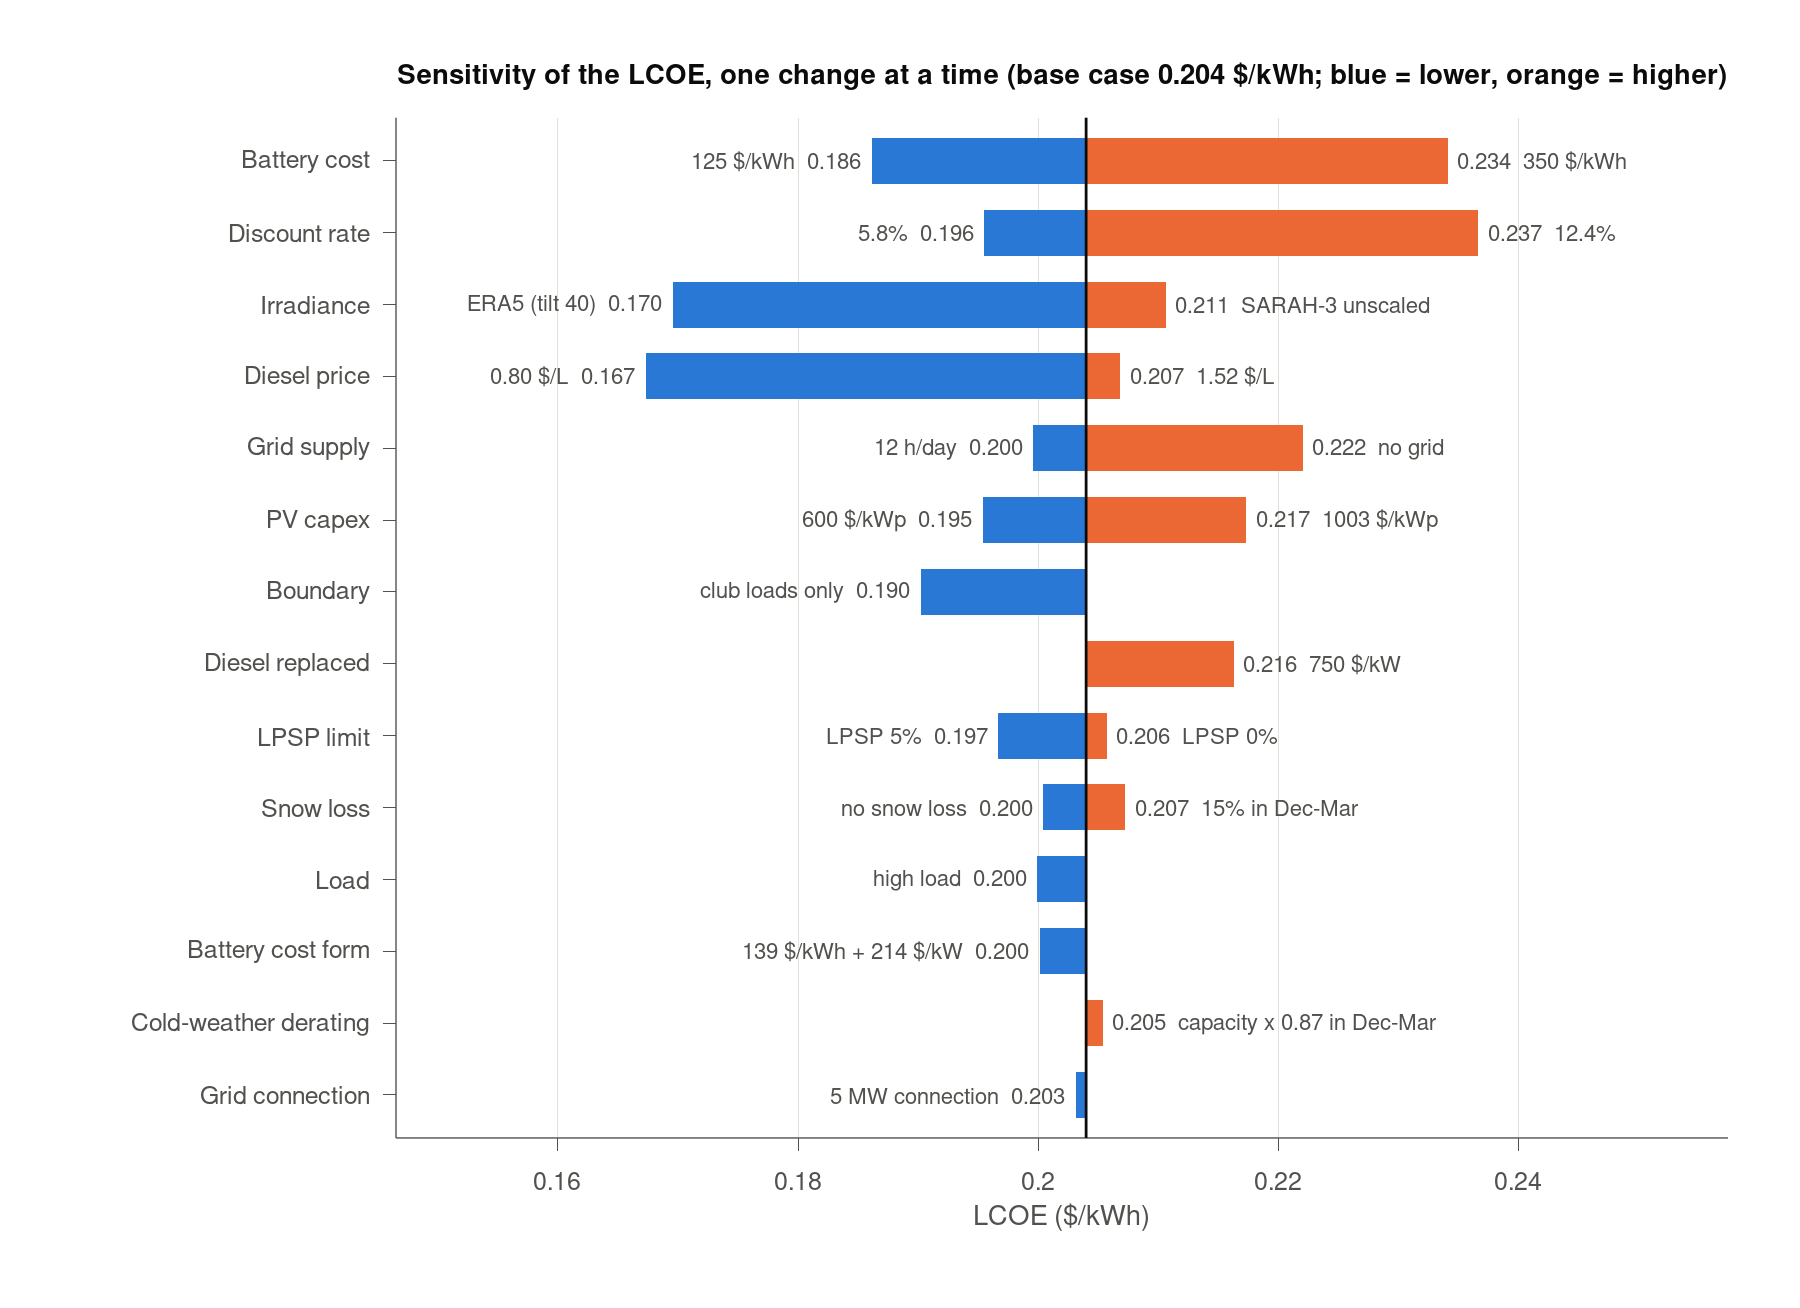
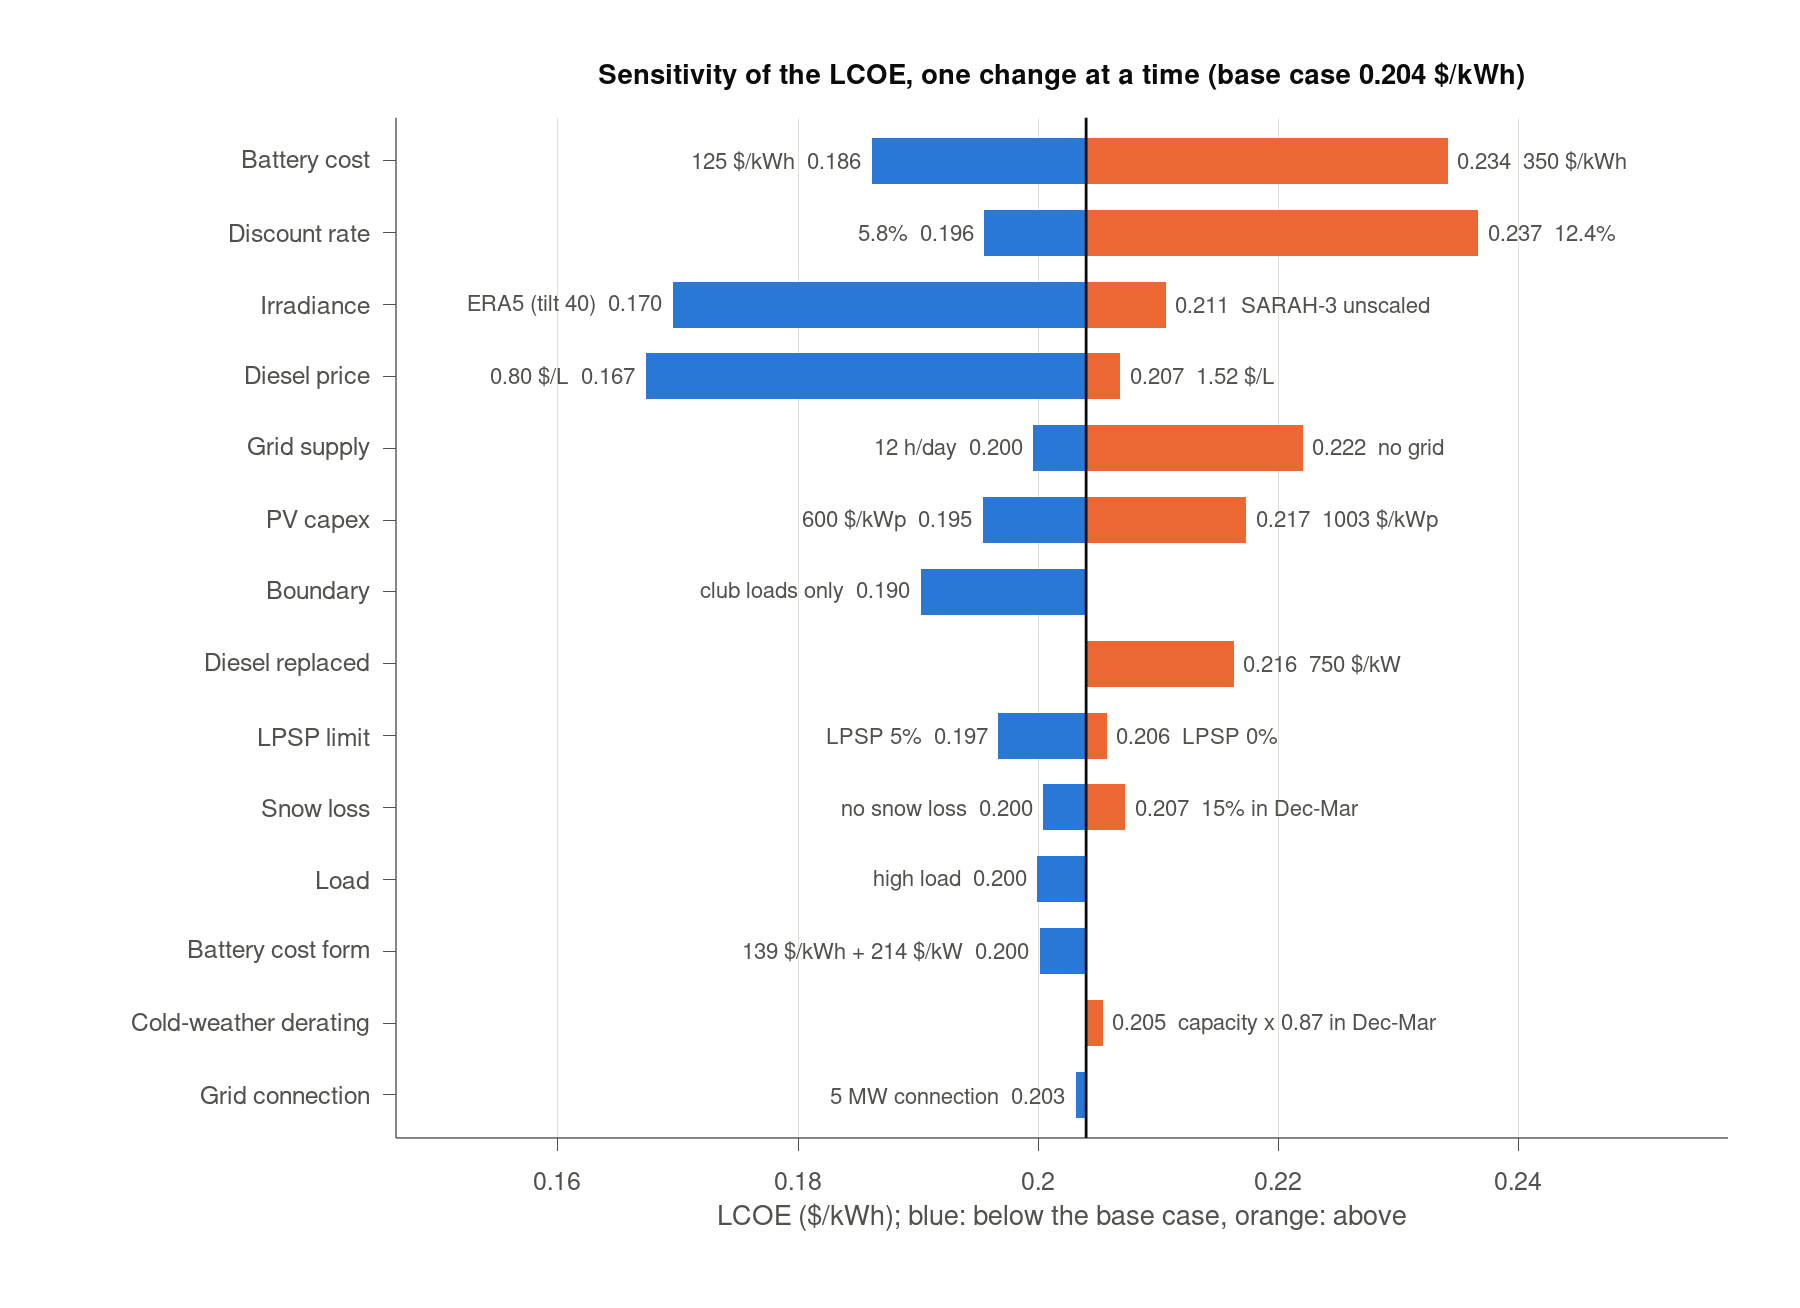
Report when load is shed; regenerate results
Add shedding hours, largest shed power and winter share to the KPIs and
the results README, plus a design-year consistency check. Rename two
local names that shadow MATLAB functions.

Claude-Session: https://claude.ai/code/session_01TWvgP6jwiDGerSZ1fpXVgg

Changed region(s): [[0.2178, 0.0306, 0.9644, 0.0917], [0.4044, 0.9174, 0.7778, 0.948]]

diff --git a/model/write_outputs.m b/model/write_outputs.m
@@ -199,7 +199,9 @@ if ischar(v)
 elseif isnan(v)
     str = '';
 else
-    str = sprintf(sprow{4}, double(v) * sprow{3});
+    v = double(v) * sprow{3};
+    if abs(v) < 1e-12, v = 0; end             % no "-0.0"
+    str = sprintf(sprow{4}, v);
 end
 end
 
@@ -253,10 +255,10 @@ p('battery degradation %s, diesel capex %s, fuel %s, diesel O&M %s, grid energy 
   commas(B.c_b_deg), commas(B.c_d_capex), commas(B.c_fuel), commas(B.c_dg_om), commas(B.c_grid));
 
 p(['The %g%% of load that may be shed is non-critical load only. The model uses the allowance in ' ...
-   'the hours that set the diesel rating: %.0f%% of the shed energy falls in December to March, in %d ' ...
-   'hours, most of it in the weeks of highest load and lowest PV output (see ' ...
-   '`fig_dispatch_winter_week.png`). With LPSP 0%% nothing is shed; the `lpsp_0` sensitivity gives the ' ...
-   'cost and the diesel rating of that design.\n\n'], 100 * s.lpsp_max, 100 * B.uns_winter_frac, B.uns_hours);
+   'the hours that set the diesel rating: load is shed in %d hours, up to %.0f kW at a time, and %.0f%% ' ...
+   'of the shed energy falls in December to March (`fig_dispatch_winter_week.png` shows some of these ' ...
+   'hours). With LPSP 0%% nothing is shed; the `lpsp_0` sensitivity gives the cost and the diesel rating ' ...
+   'of that design.\n\n'], 100 * s.lpsp_max, B.uns_hours, B.uns_max_kW, 100 * B.uns_winter_frac);
 
 % ---------------------------------------------------------------- tilt
 p('## PV tilt\n\n');
@@ -341,6 +343,13 @@ p(['- Base case LP: %s variables, %s equality and %s inequality constraints, %s 
 p('- Power balance residual: at most %.1e kW in any hour.\n', B.chk_balance);
 p('- Battery energy balance and cyclic condition: residual at most %.1e kWh.\n', B.chk_soc);
 p('- Simultaneous charge and discharge: %d hours (largest overlap %.1e kW).\n', B.chk_simul_h, B.chk_simul_kW);
+if full
+    jd = find(abs([S.Kwx.E_pv_avail] - B.E_pv_avail) < 1e-6 * B.E_pv_avail, 1);
+    if ~isempty(jd)
+        p(['- Dispatch-only run with the design weather year (%d) and the base-case sizes gives the ' ...
+           'base-case cost again (difference %.2f $/yr).\n'], S.years(jd), abs(S.Kwx(jd).cost - B.cost));
+    end
+end
 p(['- Diesel: runs %d hours. Hours with diesel while PV is curtailed: %d; while the grid has spare ' ...
    'capacity: %d; while the battery charges: %d.\n'], B.dg_hours, B.chk_dg_curt_h, B.chk_dg_grid_h, ...
    B.chk_dg_charge_h);

diff --git a/model/plot_results.m b/model/plot_results.m
@@ -57,14 +57,14 @@ Ewe  = Eday(sat) + Eday(sat + 1);
 
 is_ski = ski(sat) > 0 | ski(sat + 1) > 0;
 [~, j] = max(Ewe .* is_ski);
-w_win = window(day, nday, sat(j));
+w_win = week_window(day, nday, sat(j));
 
 is_sum = ismember(mon(sat), [6 7 8]);
 [~, j] = max(Ewe .* is_sum);
-w_sum = window(day, nday, sat(j));
+w_sum = week_window(day, nday, sat(j));
 end
 
-function w = window(day, nday, d_sat)
+function w = week_window(day, nday, d_sat)
 d1 = d_sat - 2;                                          % Thursday
 d1 = min(max(d1, 1), nday - 6);
 w  = find(day >= d1 & day <= d1 + 6);

diff --git a/model/main.m b/model/main.m
@@ -1,7 +1,7 @@
 function S = main(mode)
 %MAIN  Run the Faqra Club microgrid study and write the results/ folder.
 %
-%   main            full study (about 80 LPs, 10 to 15 minutes)
+%   main            full study (about 80 LPs; 5 to 10 minutes with HiGHS)
 %   main('quick')   input checks, 48-h test, reference and base case at the
 %                   four tilts, with figures (about 1 minute)
 %   S = main(...)   also returns all results in one struct

diff --git a/results/README.md b/results/README.md
@@ -1,6 +1,6 @@
 # Results: Faqra Club PV + battery microgrid (LP model)
 
-Written by `model/main.m` on 2026-11-22 13:29 with GNU Octave 8.4.0. Solver: HiGHS dual simplex (scipy, called from GNU Octave). Run time 325 s. Do not edit by hand: re-run `main` to regenerate every file in this folder.
+Written by `model/main.m` on 2026-11-22 13:37 with GNU Octave 8.4.0. Solver: HiGHS dual simplex (scipy, called from GNU Octave). Run time 328 s. Do not edit by hand: re-run `main` to regenerate every file in this folder.
 
 **These numbers were produced with GNU Octave and HiGHS, not with MATLAB.** The model code is the same; in MATLAB `solve_lp.m` calls `linprog`. Re-run `main` in MATLAB before quoting the numbers in the paper. The optimal cost of an LP is unique, so the costs should agree; sizes and the hourly dispatch can differ slightly where several solutions are equally cheap.
 
@@ -22,12 +22,15 @@ Base load (club + chalets, 1,457 MWh/yr, peak 519 kW), measured EDL feeder avail
 | PV curtailed | | 29.4% of available PV |
 | LPSP achieved | 1.00% | 1.00% |
 | Unserved critical load | 0.0 kWh | 0.0 kWh |
+| Load shedding | 269 h, up to 90 kW | 126 h, up to 266 kW |
 | Battery cycles | | 218 per year |
 | CO2 | 1,004 t/yr | 311 t/yr |
 
 Saving against the reference: **199,105 $/yr (40.4%)**, and 693 t CO2 per year.
 
 Cost breakdown of the base case ($/yr): PV capex 60,040, PV O&M 17,685, battery capex 55,655, battery O&M 12,585, battery degradation 11,406, diesel capex 0, fuel 55,569, diesel O&M 1,948, grid energy 79,389.
+
+The 1% of load that may be shed is non-critical load only. The model uses the allowance in the hours that set the diesel rating: load is shed in 126 hours, up to 266 kW at a time, and 100% of the shed energy falls in December to March (`fig_dispatch_winter_week.png` shows some of these hours). With LPSP 0% nothing is shed; the `lpsp_0` sensitivity gives the cost and the diesel rating of that design.
 
 ## PV tilt
 
@@ -37,6 +40,8 @@ Cost breakdown of the base case ($/yr): PV capex 60,040, PV O&M 17,685, battery 
 | Base case, tilt 40 | 1,014 | 2,660 | 230 | 294,428 | 0.204 | 40.3% | 73.6% | 149 | 1.00% |
 | Base case, tilt 50 | 1,042 | 2,603 | 230 | 297,181 | 0.206 | 39.8% | 73.2% | 154 | 1.00% |
 | Base case, tilt 60 | 1,098 | 2,524 | 231 | 303,331 | 0.210 | 38.5% | 72.4% | 161 | 1.00% |
+
+The two cheapest tilts differ by 150 $/yr (0.05% of the cost), so the choice between them is not decided by cost.
 
 ## Sensitivities (one change at a time from the base case)
 
@@ -74,6 +79,8 @@ Cost breakdown of the base case ($/yr): PV capex 60,040, PV O&M 17,685, battery 
 | Diesel replaced: 750 $/kW | 1,018 | 2,818 | 208 | 312,010 | 0.216 | 41.0% | 74.5% | 138 | 1.00% |
 | Battery cost form: 139 $/kWh + 214 $/kW | 999 | 2,840 | 226 | 288,731 | 0.200 | 41.5% | 73.7% | 141 | 1.00% |
 | Grid connection: 5 MW connection | 980 | 2,642 | 211 | 293,035 | 0.203 | 40.6% | 72.8% | 130 | 1.00% |
+
+The load scenarios change the size of the system and its cost (127,237 to 679,649 $/yr) much more than the LCOE.
 
 ## Weather robustness (base-case sizes fixed, dispatch re-optimized)
 
@@ -124,10 +131,11 @@ From the prototype to the base case of this study:
 
 - Inputs: 84 of 84 annual sums and peaks match `inputs/inputs_summary.md` (`input_checks.csv`).
 - 48-hour test (`model/tests/test_small_case.m`): all hand-calculated cases reproduced.
-- Base case LP: 87,606 variables, 26,280 equality and 70,082 inequality constraints, 261,186 non-zeros. Solver status: optimal. Solve time 6.4 s.
+- Base case LP: 87,606 variables, 26,280 equality and 70,082 inequality constraints, 261,186 non-zeros. Solver status: optimal. Solve time 5.9 s.
 - Power balance residual: at most 2.3e-13 kW in any hour.
 - Battery energy balance and cyclic condition: residual at most 3.9e-12 kWh.
 - Simultaneous charge and discharge: 0 hours (largest overlap 0.0e+00 kW).
+- Dispatch-only run with the design weather year (2015) and the base-case sizes gives the base-case cost again (difference 0.00 $/yr).
 - Diesel: runs 841 hours. Hours with diesel while PV is curtailed: 0; while the grid has spare capacity: 0; while the battery charges: 0.
 - Committed capacity: u_dg equals p_dg in every hour (largest gap 0.0e+00 kW), so the minimum-load constraint (5c) never binds and fuel use is (a + b) = 0.259 L/kWh.
 - In 57 of the 841 diesel hours the output is below 30% of the full rating of 233 kW, which one single set of that size could not do.
@@ -136,7 +144,7 @@ From the prototype to the base case of this study:
 ## Choices made where the brief left room
 
 - **Grid connection.** `P_gmax` is fixed to the peak of the scenario's load (519 kW in the base case). It has no cost in the objective, so it cannot be a free decision. The `grid_5MW` sensitivity shows the effect of a connection that never limits.
-- **Zero-cost sizes.** The diesel rating (existing sets, capex 0) and, with the all-in battery cost, the PCS rating have no cost, so the LP alone does not fix them. A tie-breaker of 0.001 $/kW-yr makes the solver return the smallest rating that is enough. It is excluded from every reported cost.
+- **Zero-cost sizes.** The diesel rating (existing sets, capex 0) and, with the all-in battery cost, the PCS rating have no cost, so the LP alone does not fix them. A tie-breaker of 0.001 $/kW-yr makes the solver return the smallest rating that is enough. It is excluded from every reported cost. One consequence: which hours are shed under the LPSP limit is also a tie in cost (every diesel kWh costs the same), and the tie-breaker settles it by shedding at the diesel peaks.
 - **Battery cost.** Base: all-in 192 $/kWh on `E_b`, with the power rating limited to 0.5C. O&M is 2.5% of the capex per year. `batt_split` uses 139 $/kWh + 214 $/kW instead.
 - **Reference.** Grid + diesel only, with the same LPSP limit as the case it is compared with, so it may also shed up to 1% of the load.
 - **Snow 15%.** The series without snow, multiplied by 0.85 in December to March.
